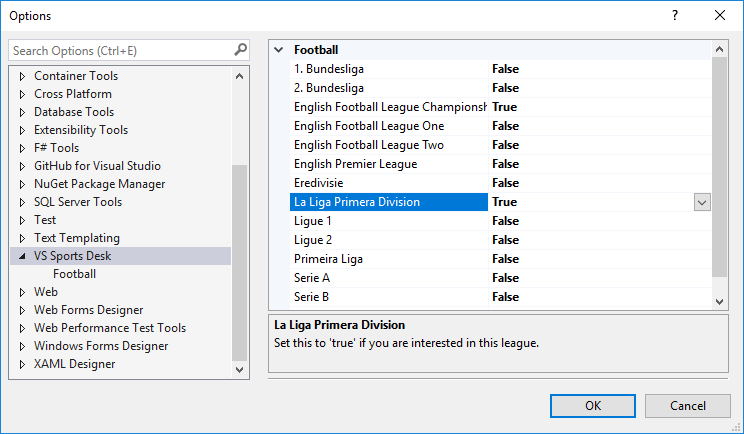
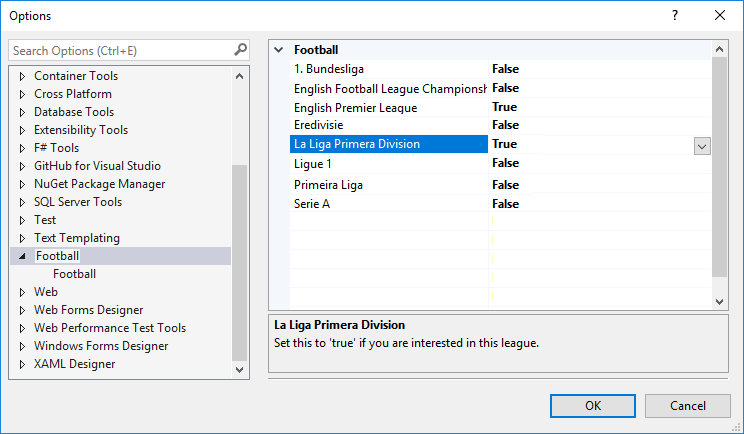
.

diff --git a/Src/FootieData.Vsix/source.extension.cs b/Src/FootieData.Vsix/source.extension.cs
@@ -7,12 +7,12 @@ namespace FootieData.Vsix
 {
     static class Vsix
     {
-        public const string Id = "28693b18-0c2c-4e86-adf2-adce836b749e";
+        public const string Id = "2BD1BC10-85EB-4454-96DF-55CE40A95E93";
         public const string Name = "Football";
-        public const string Description = @"League tables. Results. Fixtures.";
+        public const string Description = @"Tables. Results. Fixtures. In the IDE.";
         public const string Language = "en-US";
-        public const string Version = "1.1";
+        public const string Version = "2.0.2";
         public const string Author = "Greg Trevellick";
-        public const string Tags = "Bundesliga, Championship, English, Football, Footie, Footy, League, Liga, Premier, Soccer, Sport, United, Liga";
+        public const string Tags = "Bundesliga, Championship, English, Football, Footie, Footy, League, Liga, Premier, Soccer, Sport, United, Liga, Ligue, Roma, Milan, Madrid";
     }
 }

diff --git a/README.md b/README.md
@@ -70,7 +70,7 @@
 
 Bringing the latest soccer league tables and scores to Visual Studio, leveraging the awesome labour of love that is [footballdata.org](https://www.football-data.org).
 
-You need nothing else from your IDE.
+You need nothing else from your IDE (except perhaps a more imaginitive name).
    
 ![](https://github.com/GregTrevellick/VsixFootball/blob/master/Src/FootieData.Vsix/VsmmAssetts/MenuViewOtherWindows.png?raw=true)
 
@@ -138,6 +138,10 @@ Any bugs (as if!) can be logged [here][GitHubRepoIssuesURL].
 
 - Stealth mode (hides league tables when your boss is hovering)
 
+### Note for VS Sports Desk Users
+
+Following Daniel's commercialization of [FootballData.org](https://www.football-data.org) (and who can blame him?) only the top league in each country is now free (except the English Championship) so [VS Sports Desk](https://marketplace.visualstudio.com/items?itemName=GregTrevellick.VSSportsDesk) is now retired and only shows the data from 2017/18 season. 
+
 <!--VSMM readme end-->
 
 See the [change log](CHANGELOG.md) for release history.
@@ -157,6 +161,8 @@ See the [change log](CHANGELOG.md) for release history.
 [Marco Lachmann-Anke 3dman_eu](https://pixabay.com/en/males-3d-model-isolated-3d-model-2358253/)
 
 [Thomas Levesque](http://www.thomaslevesque.com/2009/04/17/wpf-binding-to-an-asynchronous-collection/)
+
+[VS Sports Desk](https://marketplace.visualstudio.com/items?itemName=GregTrevellick.VSSportsDesk)
 
 [VS SDK Analyzers](https://github.com/Microsoft/VSSDK-Analyzers/blob/master/doc/VSSDK003.md)
 

diff --git a/CHANGELOG.md b/CHANGELOG.md
@@ -6,9 +6,8 @@ These are the incremental changes to each version that has been released on the 
 
 Individual releases are tagged as such in GitHub.
 
-## 1.xx
-**2018-mm-dd**
+## 2.0.2
+**2018-09-22**
 - [x] Initial release
 
 
-.
